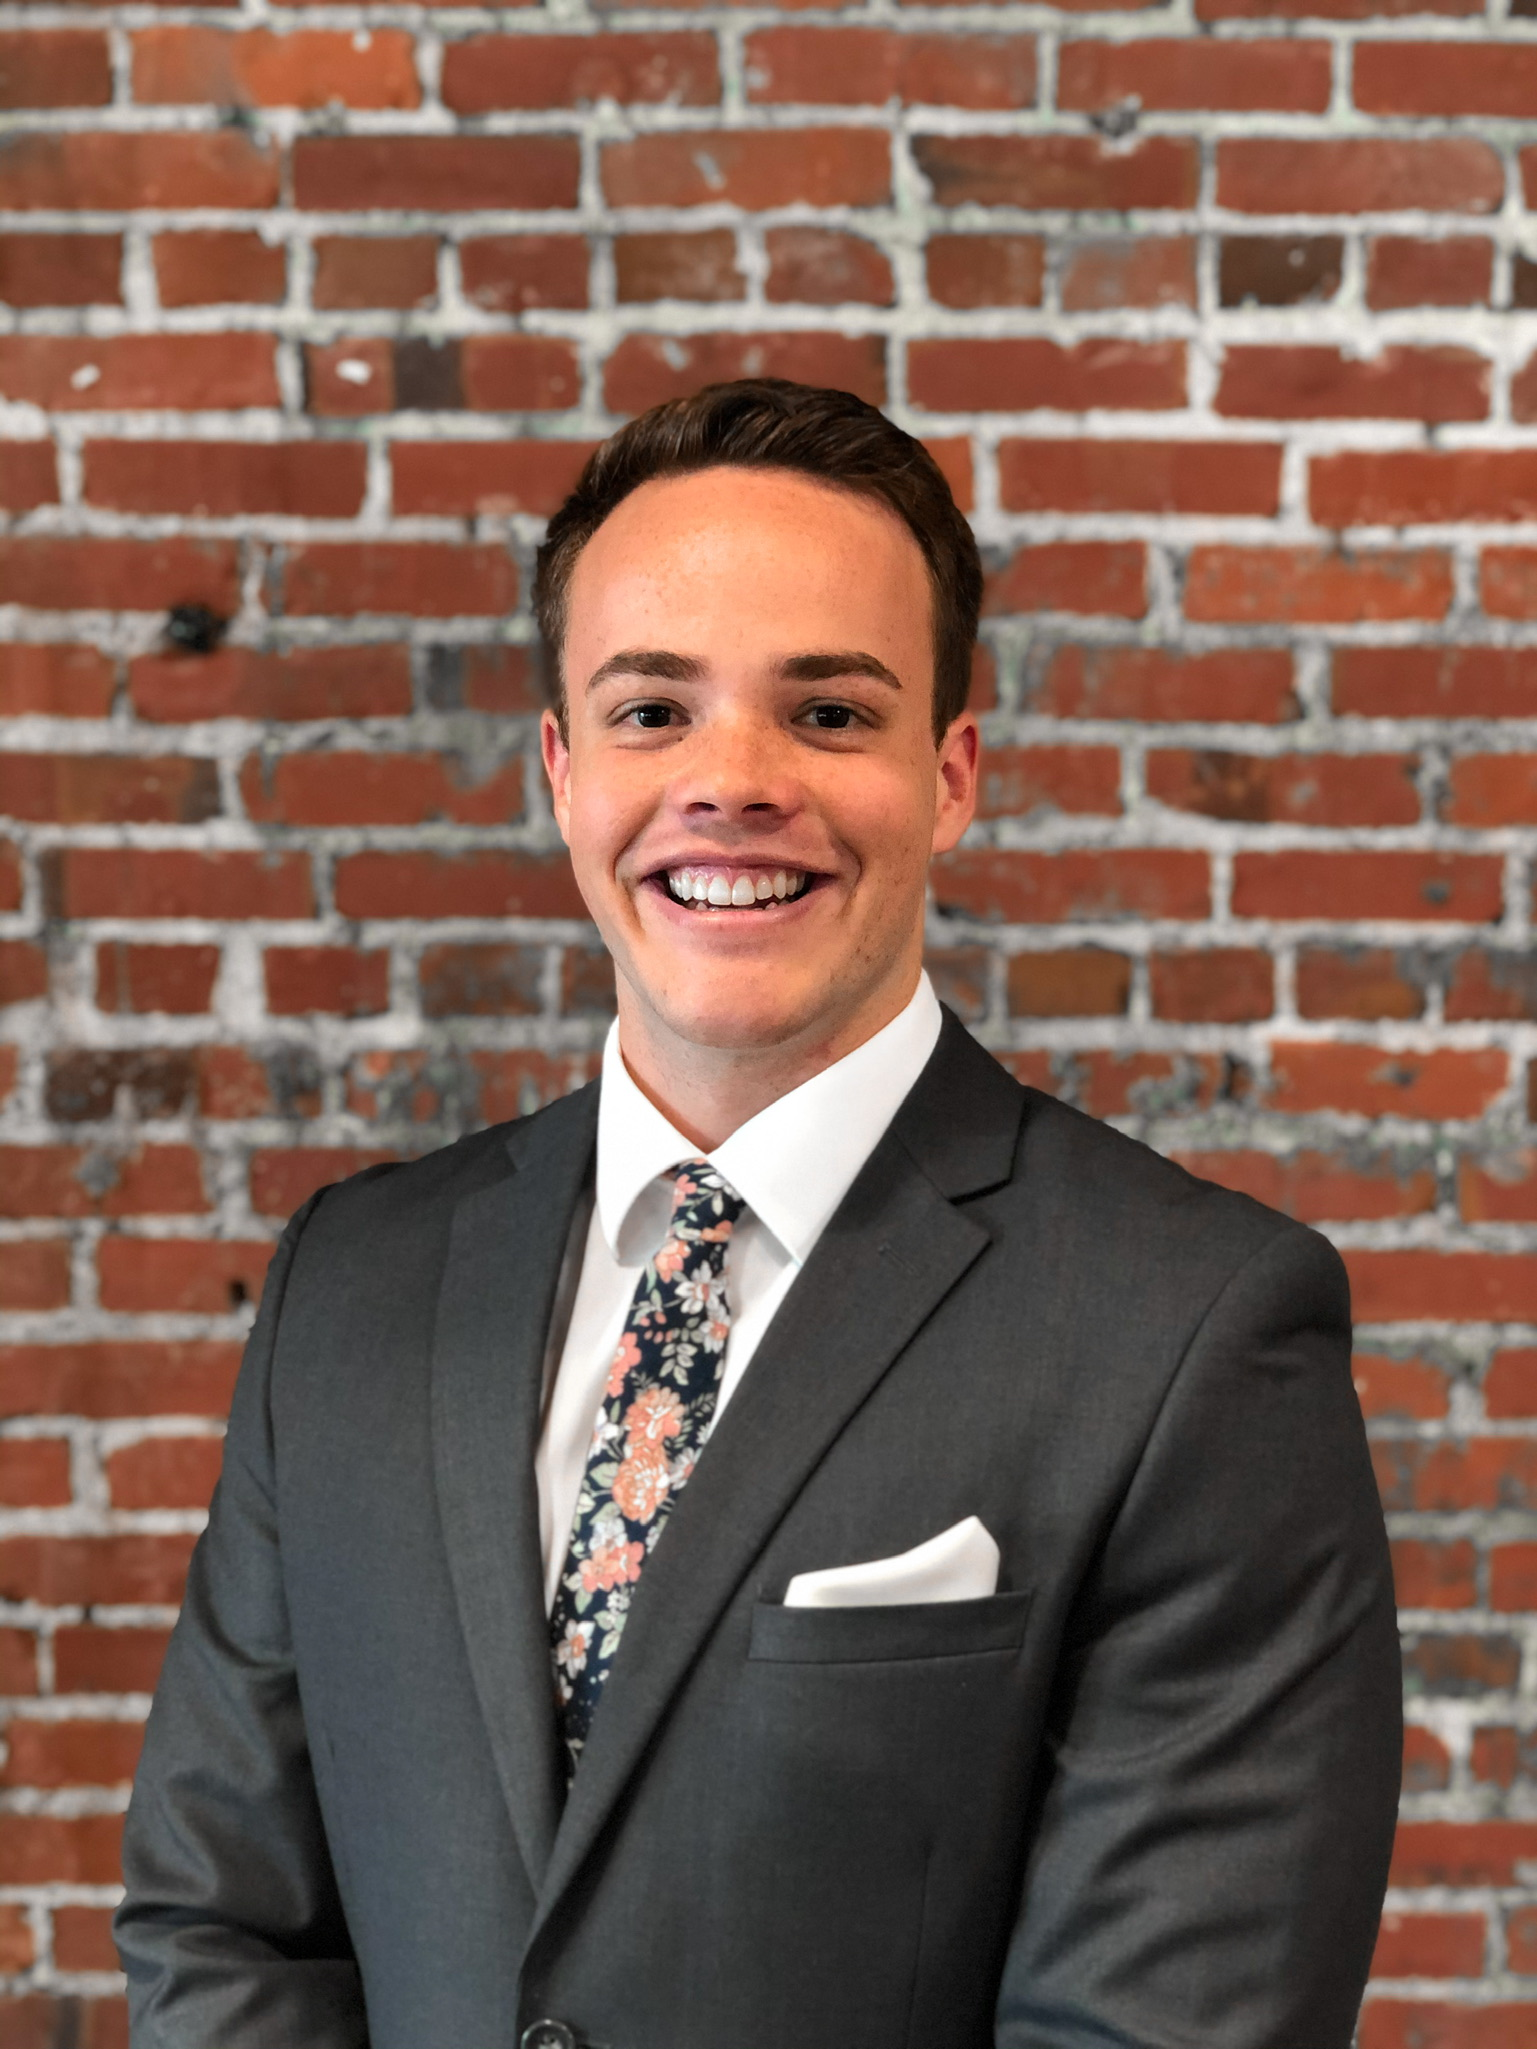
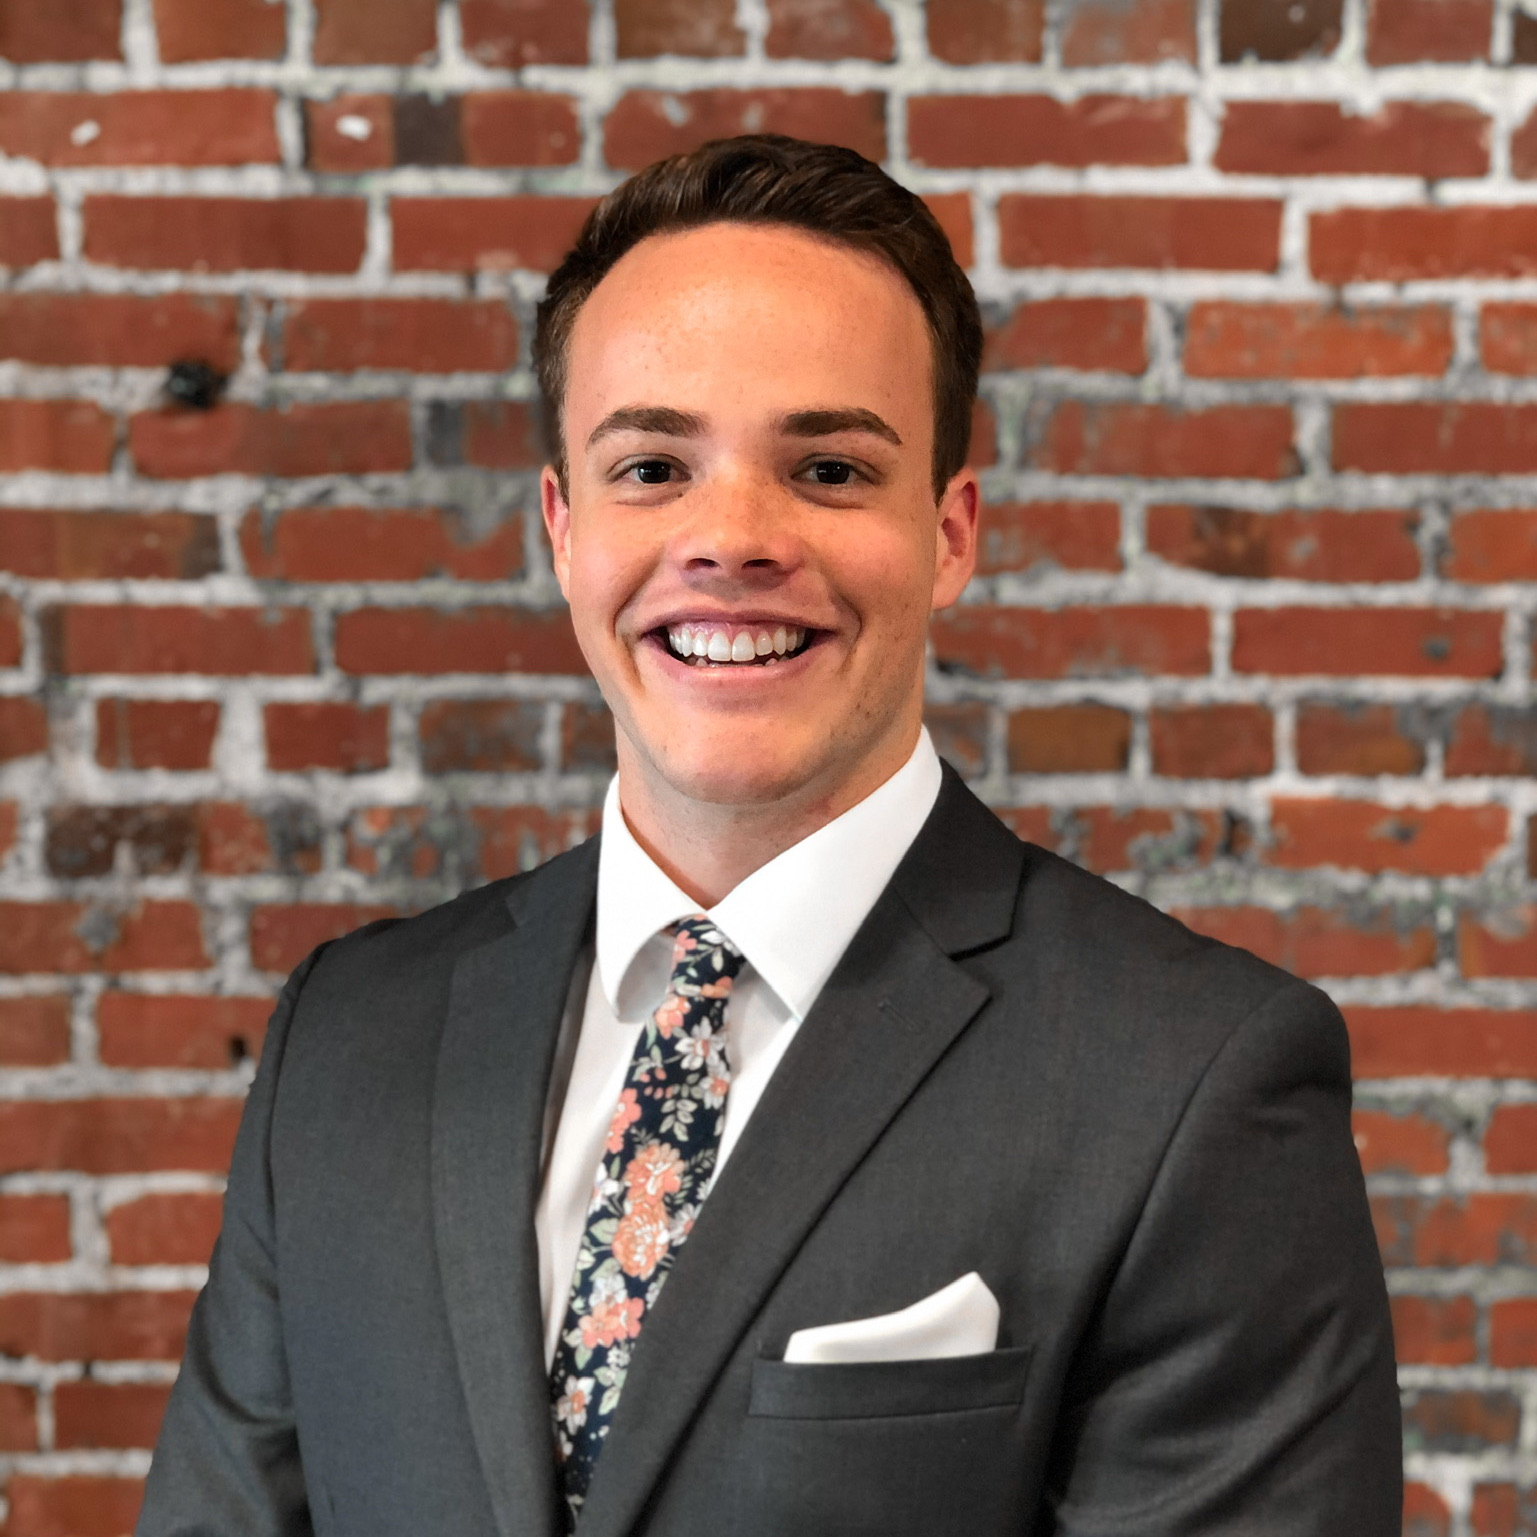
Media links for Contact, started Developer content, added Learner photo

diff --git a/index.html b/index.html
@@ -42,15 +42,20 @@
 				<!-- Main -->
 					<div id="main">
 
-						<!-- Intro -->
+						<!-- Developer (Intro) -->
 							<article id="intro">
 								<h2 class="major">Developer</h2>
-								<span class="image main"><img src="images/pic01.jpg" alt="" /></span>
+								<span class="image main"><img src="images/developer.jpg" alt="" /></span>
 								<p>Aenean ornare velit lacus, ac varius enim ullamcorper eu. Proin aliquam facilisis ante interdum congue. Integer mollis, nisl amet convallis, porttitor magna ullamcorper, amet egestas mauris. Ut magna finibus nisi nec lacinia. Nam maximus erat id euismod egestas. By the way, check out my <a href="#work">awesome work</a>.</p>
-								<p>Lorem ipsum dolor sit amet, consectetur adipiscing elit. Duis dapibus rutrum facilisis. Class aptent taciti sociosqu ad litora torquent per conubia nostra, per inceptos himenaeos. Etiam tristique libero eu nibh porttitor fermentum. Nullam venenatis erat id vehicula viverra. Nunc ultrices eros ut ultricies condimentum. Mauris risus lacus, blandit sit amet venenatis non, bibendum vitae dolor. Nunc lorem mauris, fringilla in aliquam at, euismod in lectus. Pellentesque habitant morbi tristique senectus et netus et malesuada fames ac turpis egestas. In non lorem sit amet elit placerat maximus. Pellentesque aliquam maximus risus, vel sed vehicula.</p>
+								<ul class="skills"> 
+									<li><a href="https://github.com/austin10berge" class="icon brands fab fa-html5"><span class="label">HTML5</span> HTML5</a></li>
+									<li><a href="https://github.com/austin10berge" class="icon brands fab fa-css3-alt"><span class="label">CSS3</span> CSS3</a></li>
+									<li><a href="https://github.com/austin10berge" class="icon brands fab fa-js-square"><span class="label">JavaScript</span> JavaScript</a></li>
+
+								</ul>
 							</article>
 
-						<!-- Work -->
+						<!-- Musician (Work) -->
 							<article id="work">
 								<h2 class="major">Musician</h2>
 								<span class="image main"><img src="images/Hume.jpeg" alt="" /></span>
@@ -60,11 +65,14 @@
 								<!-- <p><a href="https://www.youtube.com/channel/UCH0J3higl5LBg6DmKPeUa8g">Click here</a> to view my YouTube channel.</p> -->
 							</article>
 
-						<!-- About -->
+						<!-- Learner (About)  -->
 							<article id="about">
 								<h2 class="major">Learner</h2>
 								<span class="image main portrait"><img src="images/portrait.jpg" alt="" /></span>
-								<p>Lorem ipsum dolor sit amet, consectetur et adipiscing elit. Praesent eleifend dignissim arcu, at eleifend sapien imperdiet ac. Aliquam erat volutpat. Praesent urna nisi, fringila lorem et vehicula lacinia quam. Integer sollicitudin mauris nec lorem luctus ultrices. Aliquam libero et malesuada fames ac ante ipsum primis in faucibus. Cras viverra ligula sit amet ex mollis mattis lorem ipsum dolor sit amet.</p>
+								<p>While working at a Managed Service Provider (MSP) for two years, I've found that I am a kinetic learner. 
+									I have become comfortable diving into new tasks and figuring it out on the job. Notable projects include
+									a virtual desktop migration and several complete network setups for new clients. 
+								</p>
 							</article>
 
 						<!-- Contact -->
@@ -90,11 +98,13 @@
 										<li><input type="reset" value="Reset" /></li>
 									</ul>
 								</form>
-								<ul class="icons">
-									<li><a href="https://www.instagram.com/austintenberge" class="icon brands fa-instagram"><span class="label">Instagram</span></a></li>
+								<ul class="icons"> 
 									<li><a href="https://github.com/austin10berge" class="icon brands fa-github"><span class="label">GitHub</span></a></li>
-									<li><a href="#" class="icon brands fa-twitter"><span class="label">Twitter</span></a></li>
+									<li><a href="https://www.linkedin.com/in/austin-tenberge/" class="fab fa-linkedin-in"><span class="label"></span></a></li>
+									<!-- <li><a href="#" class="icon brands fa-twitter"><span class="label">Twitter</span></a></li> -->
+									<li><a href="mailto:austin@tenberge.me" class="icon fas fa-envelope"><span class="label">Instagram</span></a></li>
 									<li><a href="https://www.youtube.com/channel/UCH0J3higl5LBg6DmKPeUa8g" class="icon brands fa-youtube"><span class="label">YouTube</span></a></li>
+									<li><a href="https://www.instagram.com/austintenberge" class="icon brands fa-instagram"><span class="label">Instagram</span></a></li>
 								</ul>
 							</article>
 

diff --git a/assets/css/main.css b/assets/css/main.css
@@ -641,16 +641,32 @@ input, select, textarea {
 			font-family: 'Font Awesome 5 Brands';
 		}
 
-/* Learner */
-	.portrait {
-		max-width: 50%;
-		max-height: 25%;
+/* Developer */
+.skills {
+	list-style: none;
+}
+
+.skills > a {
+	font-size: 1.5em;
+}
+
+
+
+/* Learner Photo */
+
+	#about > .portrait {
+		max-width: 45%;
+		max-height: 15%;
 		margin-left: auto !important;
 		margin-right: auto !important;
 	}
 
 	.portrait > img {
-		border-radius: 100% !important;
+		border-radius: 50% !important;
+	}
+
+	#about > .image:before {
+		border-radius: 50%; 
 	}
 
 /* Image */
